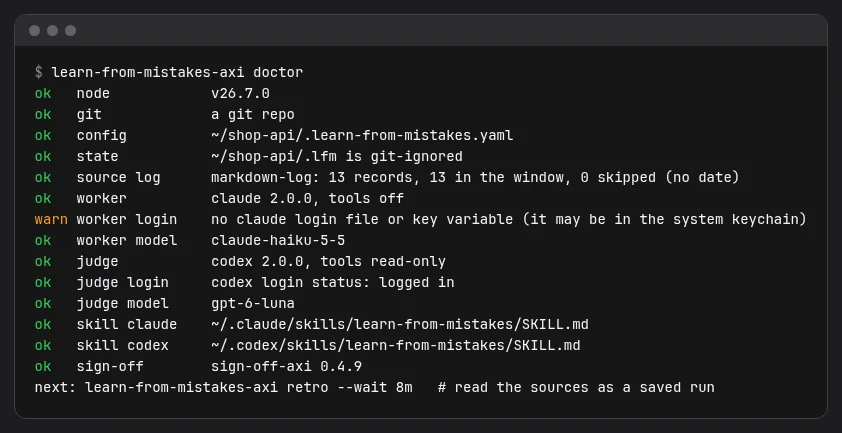
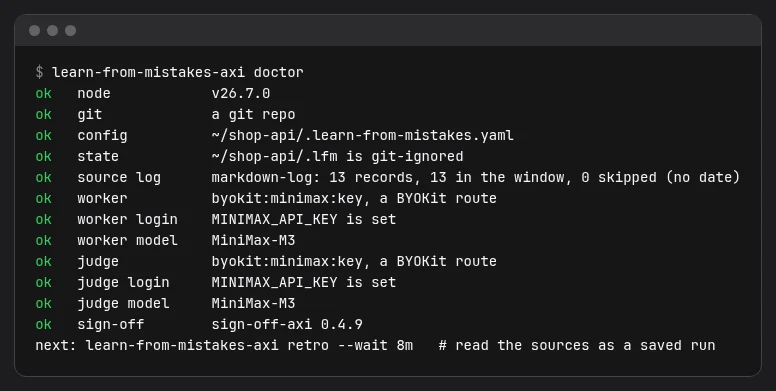
docs: re-capture the shots from a real run with MiniMax-M3 as worker and judge

Changed region(s): [[0.0309, 0.1535, 0.9588, 0.9207], [0.0309, 0.0307, 0.9588, 0.0921]]

diff --git a/docs/index.html b/docs/index.html
@@ -90,18 +90,18 @@ learn-from-mistakes-axi report</pre></li>
 
   <h2>A real run</h2>
   <figure>
-    <div class="shot"><img src="media/doctor.webp" width="842" height="433" alt="Terminal: learn-from-mistakes-axi doctor lists ok lines for node, git, config, source, worker, judge and skills"></div>
+    <div class="shot"><img src="media/doctor.webp" width="776" height="391" alt="Terminal: learn-from-mistakes-axi doctor lists ok lines for node, git, config, source, worker, judge and sign-off"></div>
     <figcaption><code>doctor</code> checks config, sources, state and both agents before a retro starts. No model call.</figcaption>
   </figure>
   <figure>
-    <div class="shot"><img src="media/retro.webp" width="776" height="391" alt="Terminal: the end of a retro run, with two repeated causes and three findings, each confirmed"></div>
-    <figcaption><code>retro</code> counts repeated causes and lists the findings the judge confirmed.</figcaption>
+    <div class="shot"><img src="media/retro.webp" width="776" height="391" alt="Terminal: the end of a retro run, with two repeated causes and three findings with the judge's verdicts"></div>
+    <figcaption><code>retro</code> counts repeated causes and lists each finding with the judge's verdict.</figcaption>
   </figure>
   <figure>
-    <div class="shot"><img src="media/report.webp" width="936" height="1252" alt="Terminal: report.txt with seven sections, from a short answer to repeated mistakes, fixes and questions for you"></div>
+    <div class="shot"><img src="media/report.webp" width="1030" height="1315" alt="Terminal: report.txt with seven sections, from a short answer to repeated mistakes, fixes and questions for you"></div>
     <figcaption><code>report.txt</code>: a short answer, numbers, repeated mistakes with evidence, checked fixes, what was not checked, and questions for you.</figcaption>
   </figure>
-  <p class="tile">These shots come from a run of the packed CLI on a small sample defect log, with scripted stand-ins for the two agents and the project path shortened. They show the shape of the output, not what a hosted model would say about your project.</p>
+  <p class="tile">These shots come from a real run of the packed CLI on a small sample defect log. Both the worker and the judge were MiniMax-M3, called through BYOKit. Only the project path is shortened. A hosted model can say different things about your project.</p>
 
   <h2>Alone, or with the family</h2>
   <p style="color:var(--muted);margin-top:0">Each tool works on its own, with or without the others and with or without an agent supervisor. They meet through small written contracts.</p>

diff --git a/README.md b/README.md
@@ -6,7 +6,7 @@
 
 <p align="center"><b><a href="https://umeranjum17.github.io/learn-from-mistakes/">Landing page</a></b> · <a href="https://www.npmjs.com/package/learn-from-mistakes-axi">npm</a> · part of the family with <a href="https://github.com/umeranjum17/sign-off">sign-off</a>, <a href="https://github.com/umeranjum17/first-draft">first-draft</a> and <a href="https://github.com/umeranjum17/done-done-axi">done-done</a></p>
 
-<p align="center"><img src="docs/media/retro.webp" width="560" alt="Terminal: the end of a retro run, with two repeated causes and three findings, each confirmed"></p>
+<p align="center"><img src="docs/media/retro.webp" width="560" alt="Terminal: the end of a retro run, with two repeated causes and three findings with the judge's verdicts"></p>
 
 `learn-from-mistakes-axi` runs a saved retrospective on a project's defect logs, failed checks and agent sessions. Its own worker reads the records and names findings. A judge role checks each finding, then the worker proposes fixes for the findings the judge did not refute, and the judge checks each fix. The CLI merges duplicates, counts repeated causes and writes a plain-text report.
 
@@ -33,7 +33,7 @@ learn-from-mistakes-axi status
 learn-from-mistakes-axi report
 ```
 
-<p align="center"><img src="docs/media/doctor.webp" width="560" alt="Terminal: learn-from-mistakes-axi doctor lists ok lines for node, git, config, source, worker, judge and skills"></p>
+<p align="center"><img src="docs/media/doctor.webp" width="560" alt="Terminal: learn-from-mistakes-axi doctor lists ok lines for node, git, config, source, worker, judge and sign-off"></p>
 
 1. `init` asks for the worker, judge and their models in a terminal. It writes `.learn-from-mistakes.yaml` and a fully commented `$LFM_HOME/config.yaml` (default `~/.learn-from-mistakes/config.yaml`). It detects supported sources, adds four editable starter causes, and asks which local agents' sessions you want read; none are preselected. Inspect the written sources before starting a retro.
 2. `doctor` checks config, sources, state, agents, login presence and model choices without calling a model. Follow each `fix:` under a `fail`, then run it again. A missing skill or sign-off peer is a warning, not a prerequisite.
@@ -44,7 +44,7 @@ The report contains a short answer, numbers, follow-ups on previous changes, rep
 
 <p align="center"><img src="docs/media/report.webp" width="560" alt="Terminal: report.txt with seven sections, from a short answer to repeated mistakes, fixes and questions for you"></p>
 
-The shots on this page come from a run of the packed CLI on a small sample defect log, with scripted stand-ins for the two agents and the project path shortened. They show the shape of the output, not what a hosted model would say about your project.
+The shots on this page come from a real run of the packed CLI on a small sample defect log, with MiniMax-M3 as both the worker and the judge, called through BYOKit; only the project path is shortened. A model can say different things about your project.
 
 ### No terminal, or no agent/model selected?
 
